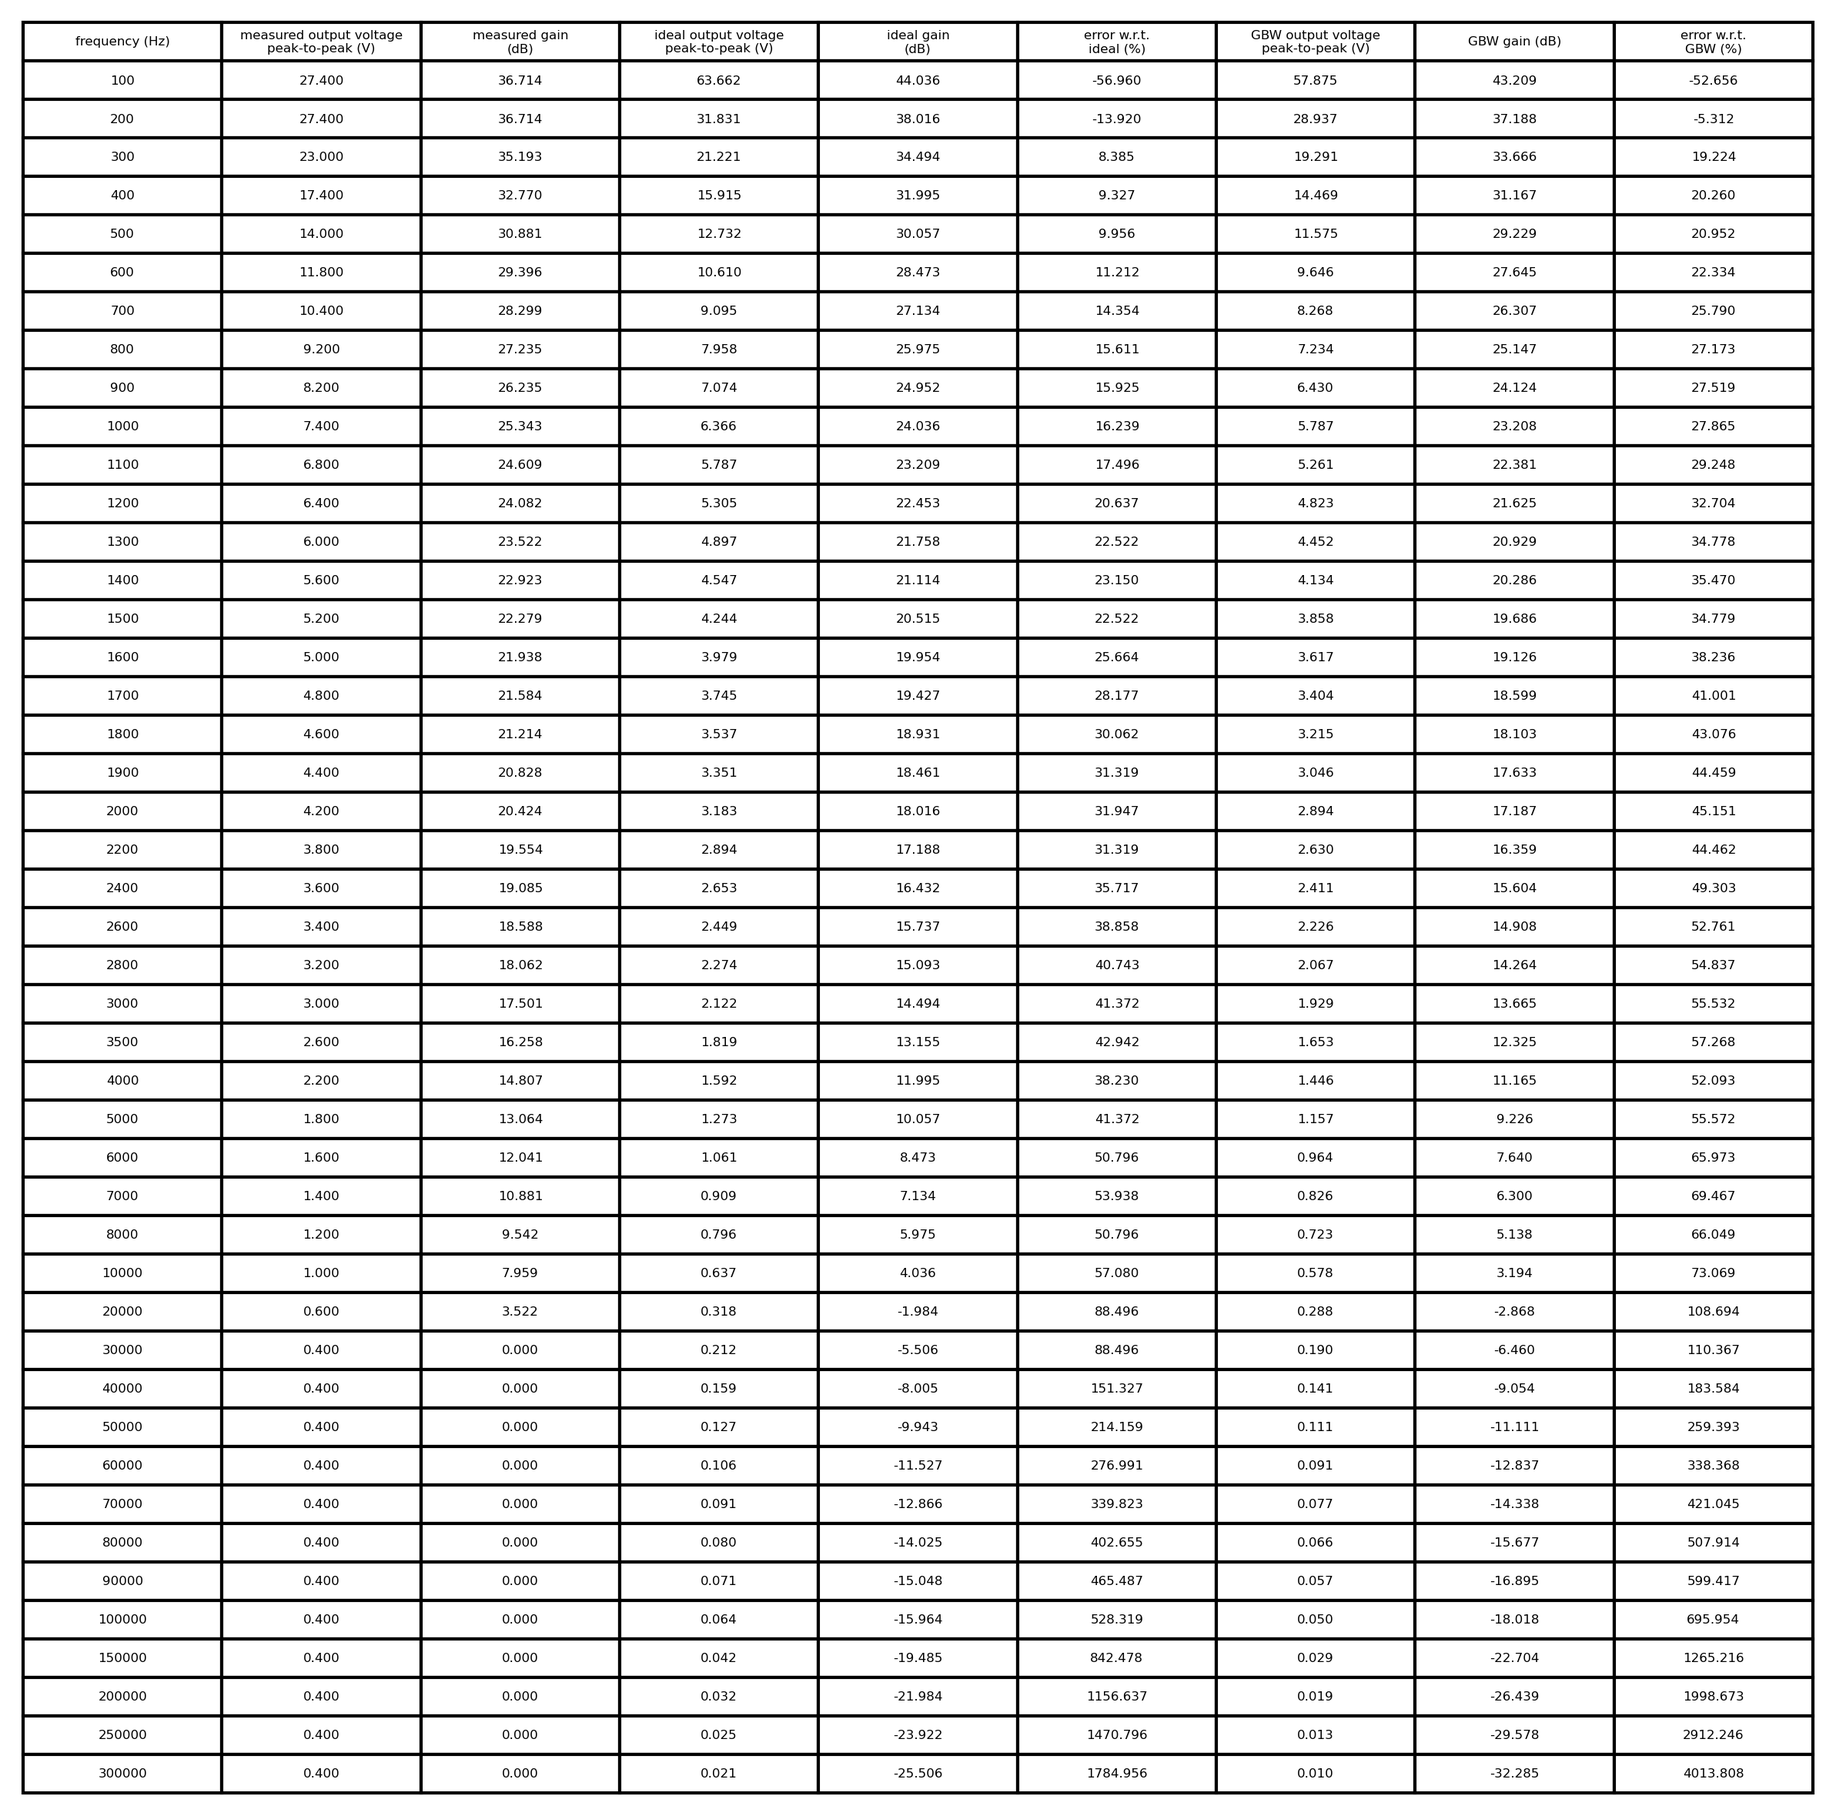
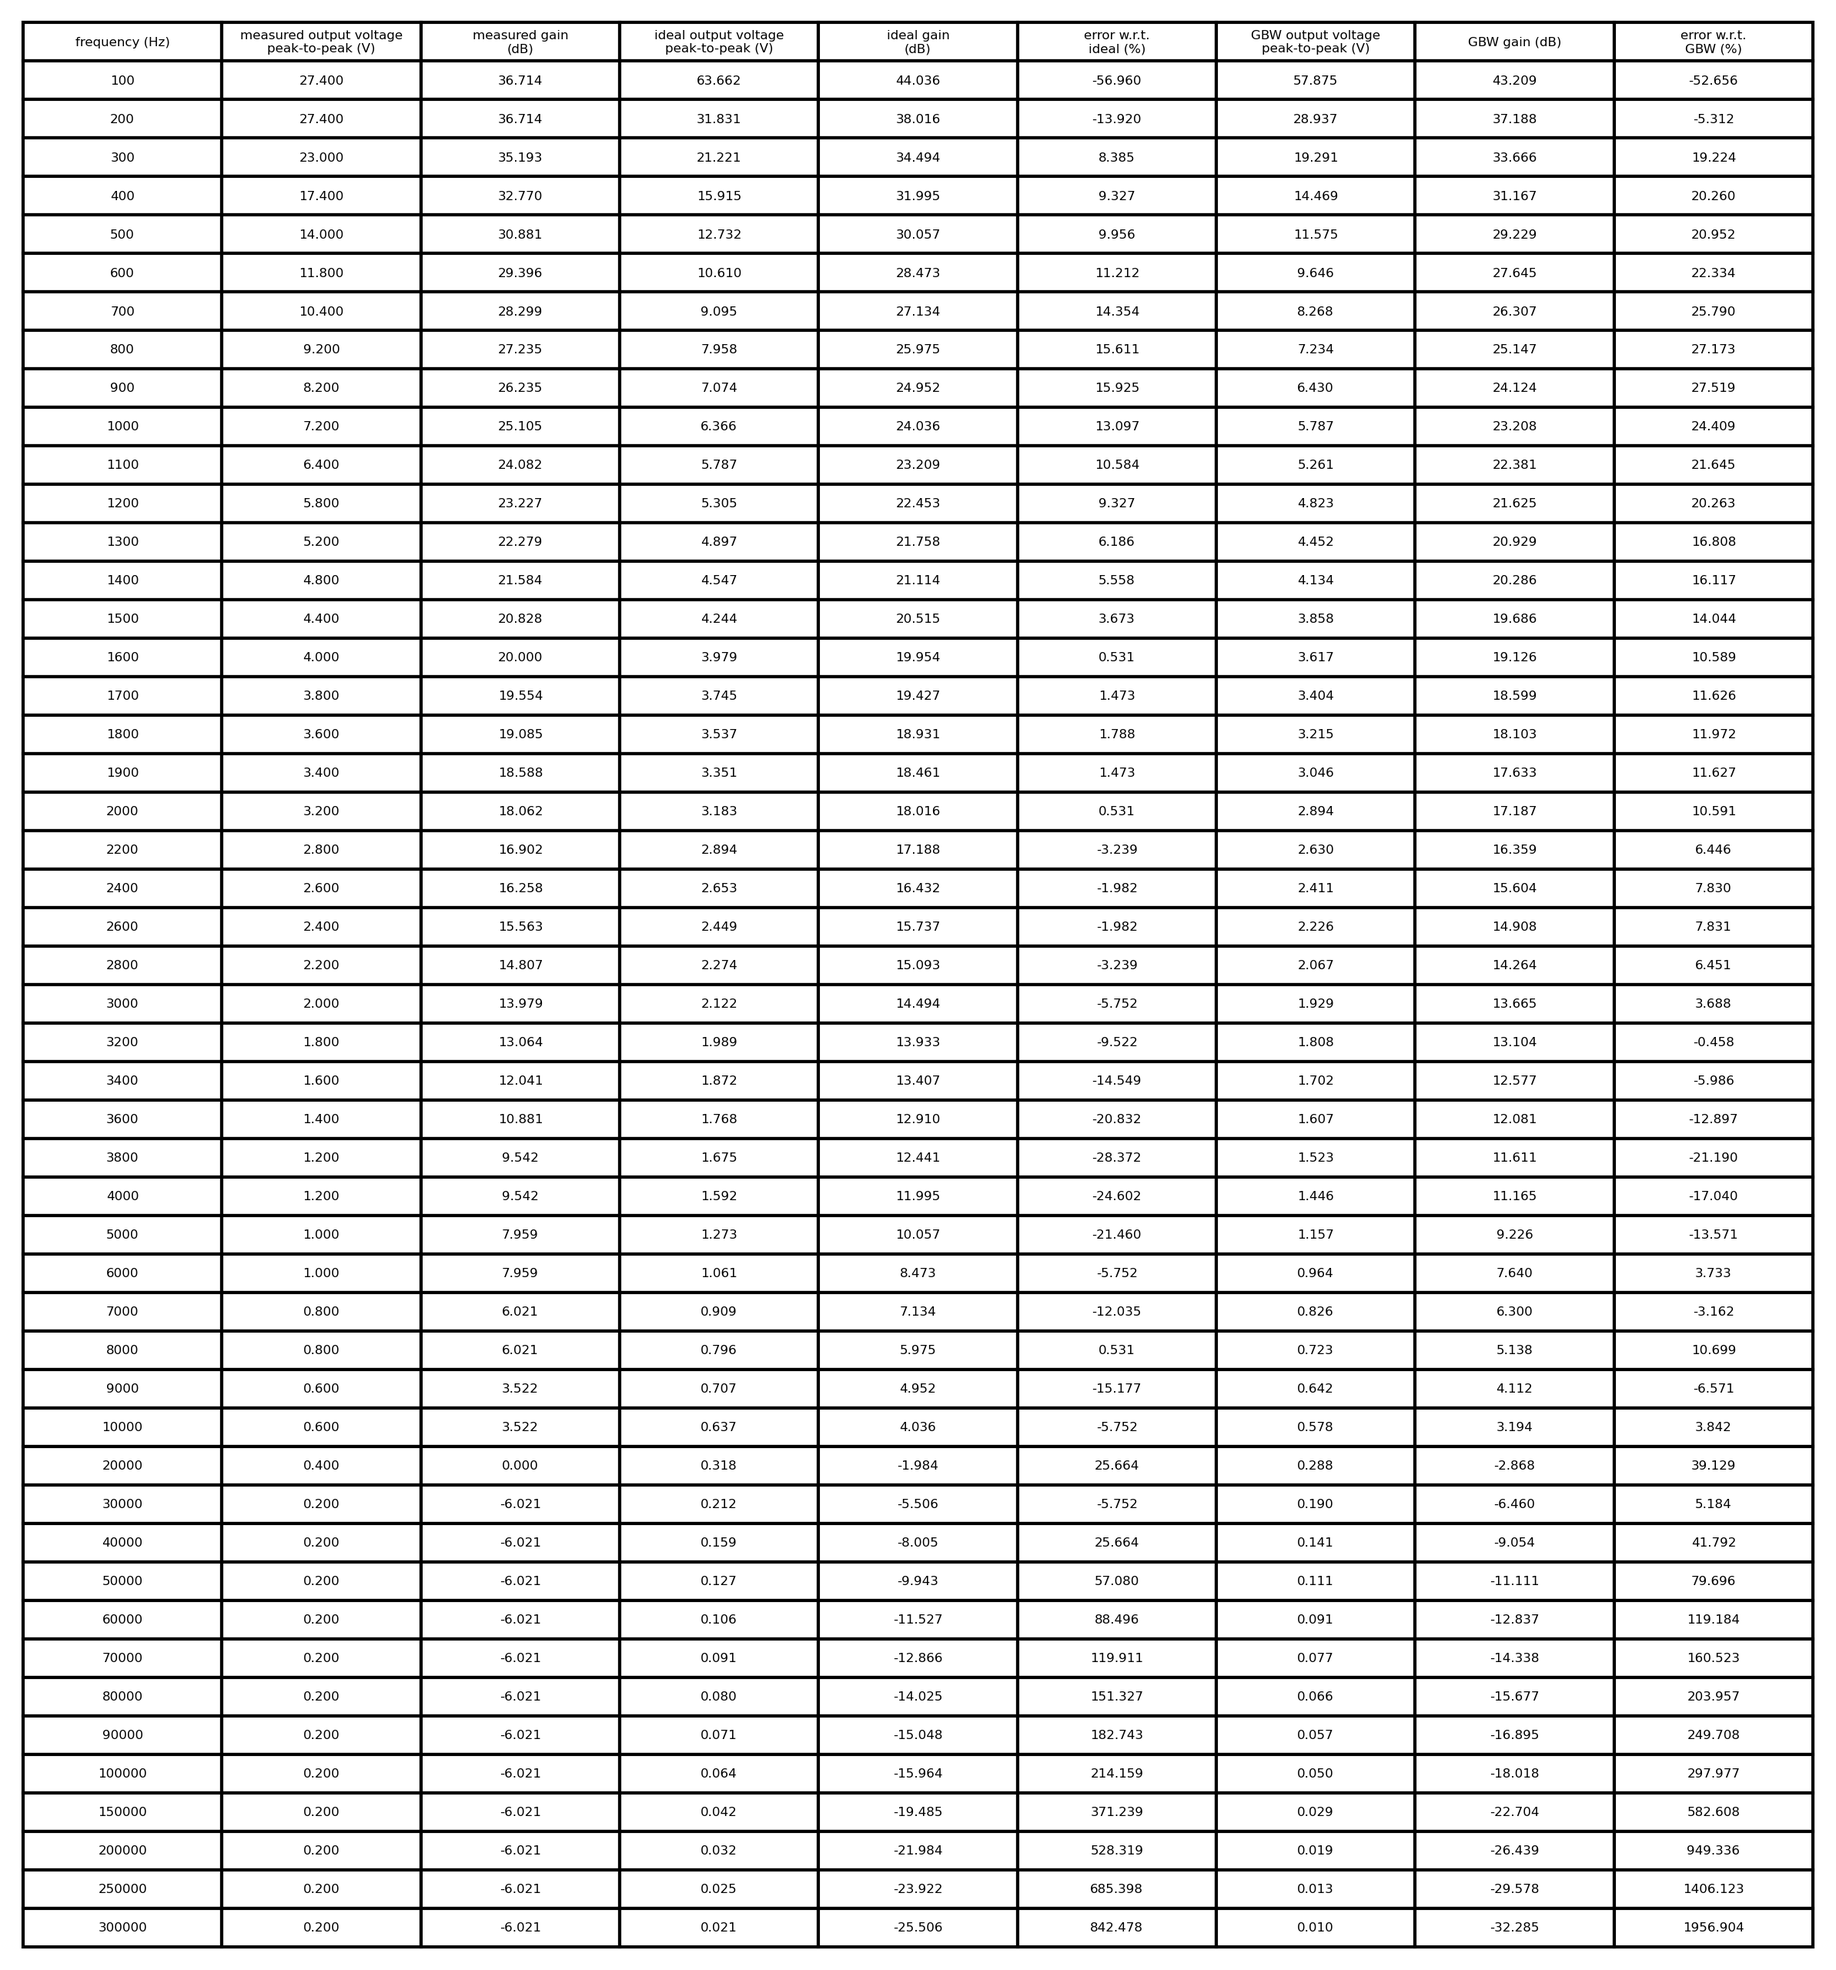
2026-10-20T18:52:13+00:00

Changed region(s): [[0.0, 0.0, 0.9929, 0.9903]]

diff --git a/2/post-lab/bode_plot.py b/2/post-lab/bode_plot.py
@@ -114,10 +114,8 @@ def process(C, freq, vout_pp, name, title, plotname, tablename):
 freq_int_103 = np.concatenate(
     [
         np.arange(100, 2000, 100),
-        np.arange(2000, 3000, 200),
-        np.arange(3000, 4000, 500),
-        np.arange(4000, 8000, 1000),
-        np.arange(8000, 10000, 2000),
+        np.arange(2000, 4000, 200),
+        np.arange(4000, 10000, 1000),
         np.arange(10000, 100000, 10000),
         np.arange(100000, 350000, 50000),
     ]
@@ -134,42 +132,46 @@ vout_pp_int_103 = np.array(
         10.4,
         9.2,
         8.2,
-        7.4,  # 1k
-        6.8,
+        7.2,  # 1k
         6.4,
-        6.0,
-        5.6,
+        5.8,
         5.2,
-        5.0,
         4.8,
-        4.6,
         4.4,
-        4.2,  # 2k
-        3.8,  # 2.2k
+        4.0,
+        3.8,
         3.6,
         3.4,
-        3.2,
-        3.0,  # 3k
-        2.6,  # 3.5k
-        2.2,  # 4k
+        3.2,  # 2k
+        2.8,  # 2.2k
+        2.6,
+        2.4,
+        2.2,
+        2.0,
         1.8,
         1.6,
         1.4,
-        1.2,  # 8k
-        1,  # 10k
-        0.6,  # 20k
-        0.4,
-        0.4,
-        0.4,
-        0.4,
-        0.4,
-        0.4,
-        0.4,
-        0.4,  # 100k
-        0.4,
-        0.4,
-        0.4,
-        0.4,
+        1.2,
+        1.2,  # 4k
+        1,  # 5k
+        1,
+        0.8,
+        0.8,
+        0.6,
+        0.6,
+        0.4,  # 20k
+        0.2,
+        0.2,
+        0.2,
+        0.2,
+        0.2,
+        0.2,
+        0.2,
+        0.2,  # 100k
+        0.2,
+        0.2,
+        0.2,
+        0.2,
     ]
 )
 
@@ -341,8 +343,8 @@ process(
 # Exp. 3 (II) Integrator without feedback resistor
 process(
     1e-9,
-    freq_int_103,
-    vout_pp_int_103,
+    freq_int_102,
+    vout_pp_int_102,
     "integrator_without_rf",
     "Exp. 3 (II) Integrator without Feedback Resistor Bode Magnitude Plot",
     "3IIwithout_plot.png",
